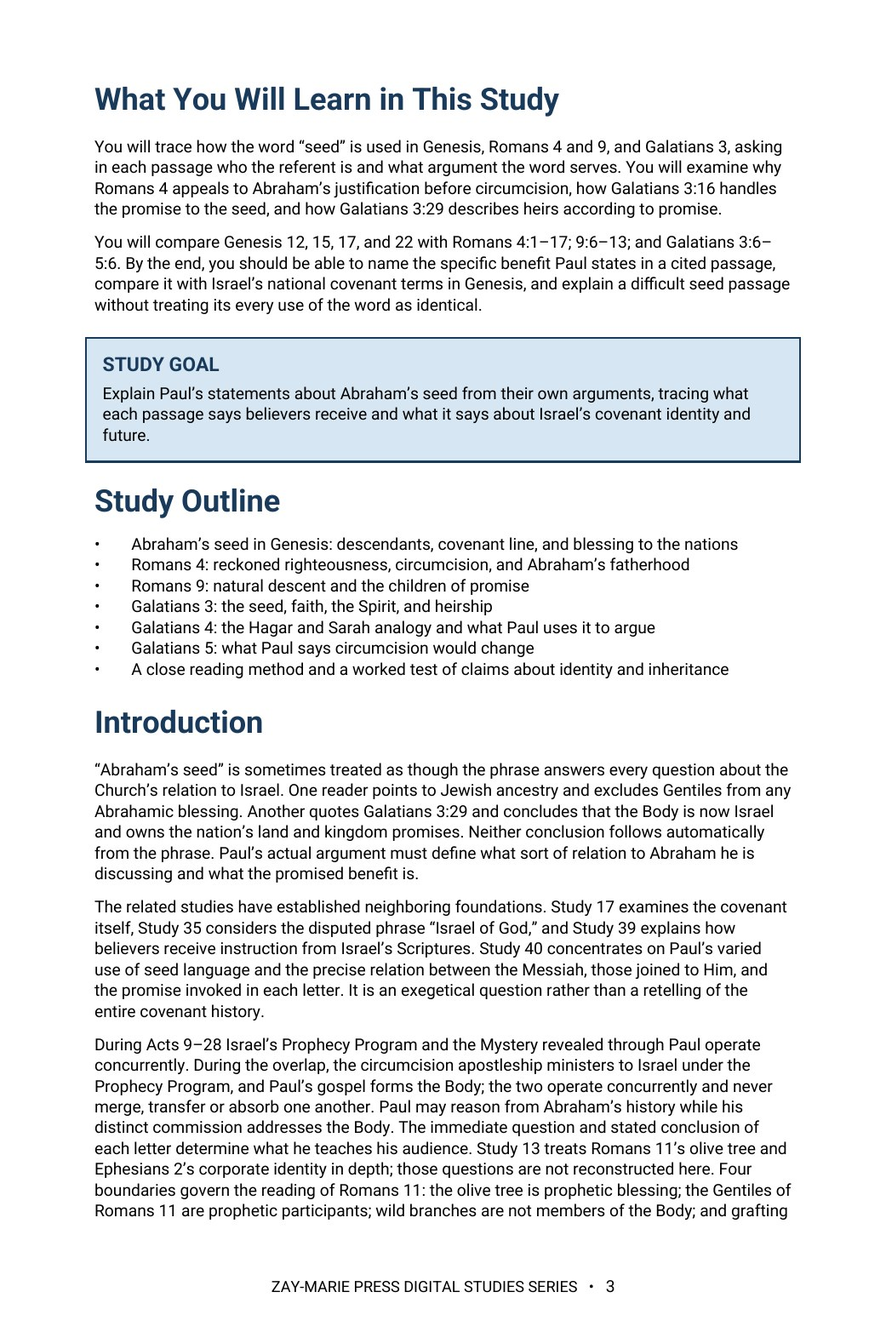
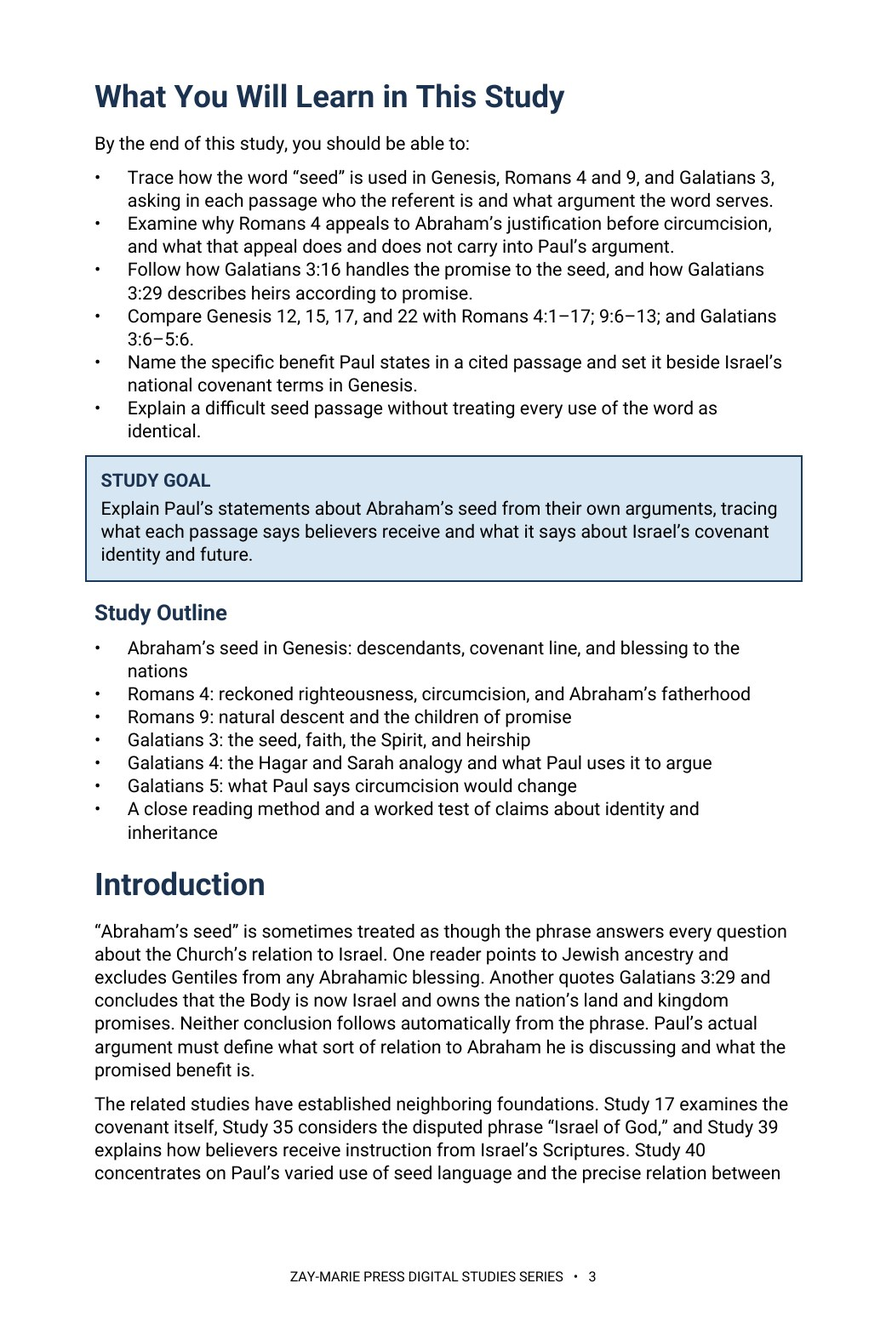
Study 40: rebuild to current page geometry, Roboto 10 pt, 23 pages; doctrinal retrofit; website counts and previews
Claude-Session: https://claude.ai/code/session_01HC7bs9KYP2scp4hCL6DkTp

diff --git a/study-40-who-is-abrahams-seed.html b/study-40-who-is-abrahams-seed.html
@@ -2,13 +2,13 @@
 <html lang="en"><head><meta charset="utf-8"><meta name="viewport" content="width=device-width,initial-scale=1"><title>Who Is Abraham’s Seed? | Zay-Marie Press</title><meta name="description" content="Trace how Paul uses Abraham’s seed in Romans and Galatians. Distinguish Christ, descendants, faith, blessing, and inheritance without transferring Israelite identity. Preview Study 40 from Zay-Marie Press."><link rel="stylesheet" href="styles.css?v=20260921-4"><link rel="icon" type="image/png" href="assets/zay-marie-press-favicon.png"><style>
 .study-detail-page{background:#fff;color:#252525}.detail-hero{background:linear-gradient(135deg,#f8f5ec,#e3ece2);padding:58px 0}.detail-hero-grid{display:grid;grid-template-columns:minmax(250px,.72fr) minmax(0,1.28fr);gap:58px;align-items:center}.detail-cover{max-width:390px;margin:auto}.detail-cover img{display:block;width:100%;height:auto;box-shadow:0 14px 36px rgba(8,45,69,.18)}.detail-hero h1{font-size:clamp(2.7rem,5vw,4.7rem);line-height:1.02;margin:8px 0 10px;color:#143823}.detail-subtitle{font-family:Georgia,serif;font-size:1.35rem;font-weight:700;color:#082d45;margin:0 0 7px}.detail-kicker{font-family:Georgia,serif;font-style:italic;font-size:1.05rem;color:#4a4a44;margin:0 0 22px}.detail-copy{font-size:1.08rem;line-height:1.65;max-width:760px}.detail-buyline{display:flex;align-items:center;gap:18px;flex-wrap:wrap;margin-top:25px}.detail-price{font-family:Georgia,serif;font-size:2rem;font-weight:700;color:#143823}.detail-format,.preview-card .page-no{font-family:Arial,sans-serif;font-size:.76rem;font-weight:700;letter-spacing:.1em;text-transform:uppercase;color:#176b3a}.detail-button{display:inline-block;background:#176b3a;color:#fff;padding:13px 22px;font-family:Arial,sans-serif;font-size:.8rem;font-weight:700;letter-spacing:.07em;text-transform:uppercase}.detail-button.pending{opacity:.72;cursor:default}.detail-section{padding:66px 0}.detail-section.soft{background:#f6f7f2}.detail-section.cream{background:#faf8f2}.detail-section h2{color:#143823;margin:6px 0 18px;font-size:clamp(2rem,3.4vw,3rem)}.detail-section .lead{max-width:920px;font-size:1.1rem;line-height:1.62}.study-distinction{max-width:920px;margin-top:28px;margin-bottom:28px;padding:26px 28px;background:#fff;border:1px solid #d8d1bf;border-left:4px solid #b8871c}.study-distinction h3{margin:0 0 10px;color:#143823}.study-distinction p{margin:0 0 14px;line-height:1.62}.study-distinction a{font-family:Arial,sans-serif;font-weight:700;color:#176b3a;text-decoration:none}.study-points{display:grid;grid-template-columns:repeat(3,1fr);gap:18px;margin-top:28px;margin-bottom:28px}.study-point,.scripture-card,.preview-card,.include-item{background:#fff;border:1px solid var(--line);text-align:left}.study-point{border-top:3px solid #176b3a;padding:22px}.study-point h3{color:#143823;margin:0 0 8px;font-size:1.2rem}.study-point p,.scripture-card p,.preview-card p,.include-item p{margin:0;line-height:1.55}.scripture-grid{display:grid;grid-template-columns:repeat(4,1fr);gap:14px;margin-top:24px;margin-bottom:24px}.scripture-card{padding:22px 20px;color:#143823}.scripture-card h3{margin:0 0 9px;font-family:Georgia,serif;font-size:1rem;line-height:1.35}.scripture-card p{font-size:.94rem;color:#45453f}.excerpt{max-width:900px;margin:28px auto;border-left:4px solid #b8871c;padding:10px 0 10px 28px}.excerpt blockquote{font-family:Georgia,serif;font-size:clamp(1.45rem,2.5vw,2rem);line-height:1.45;color:#143823;margin:0 0 16px}.excerpt p{line-height:1.6;margin:0}.preview-grid{display:grid;grid-template-columns:repeat(2,1fr);gap:20px;margin-top:28px;margin-bottom:28px}.preview-card{padding:18px;min-height:210px;box-shadow:0 7px 20px rgba(20,40,25,.05)}.preview-image-link{display:block;margin:0 0 18px}.preview-image-link img{display:block;width:100%;height:auto;border:1px solid #d8d1bf;box-shadow:0 8px 22px rgba(20,40,25,.1);transition:transform .18s ease,box-shadow .18s ease}.preview-image-link:hover img{transform:translateY(-2px);box-shadow:0 11px 28px rgba(20,40,25,.16)}.preview-card h3{color:#143823;margin:8px 0 10px}.preview-instruction{margin:10px 0 0;font-family:Arial,sans-serif;font-size:.78rem;letter-spacing:.04em;color:#5b5b55}.includes-grid{display:grid;grid-template-columns:repeat(4,1fr);gap:14px;margin-top:26px}.include-item{padding:22px 20px;color:#143823}.include-item h3{margin:0 0 9px;font-family:Arial,sans-serif;font-size:.86rem;line-height:1.35;letter-spacing:.02em}.include-item p{font-size:.94rem;color:#45453f}.final-buy{background:#082d45;color:#fff;border-top:4px solid #b8871c;padding:42px 48px;display:grid;grid-template-columns:1fr auto;gap:36px;align-items:center}.final-buy .eyebrow,.final-buy h2,.final-buy .detail-price{color:#fff}.final-buy h2{margin:7px 0 6px}.final-buy p{margin:0}.final-offer{text-align:center}.back-link{display:inline-block;margin-top:18px;color:#143823;font-family:Arial,sans-serif;font-weight:700;text-decoration:none}.preview-lightbox{position:fixed;inset:0;z-index:10000;display:none;align-items:flex-start;justify-content:center;background:rgba(8,22,16,.88);padding:24px;overflow:auto}.preview-lightbox.open{display:flex}.preview-lightbox img{display:block;width:auto;height:auto;max-width:none;box-shadow:0 18px 55px rgba(0,0,0,.4);background:#fff}.preview-lightbox-close{position:fixed;top:18px;right:24px;z-index:10001;width:46px;height:46px;border:1px solid rgba(255,255,255,.65);border-radius:50%;background:rgba(0,0,0,.55);color:#fff;font:32px/1 Arial,sans-serif;cursor:pointer}@media(max-width:900px){.detail-hero-grid{grid-template-columns:1fr;gap:34px}.detail-cover{max-width:330px}.study-points{grid-template-columns:repeat(2,1fr)}.scripture-grid,.includes-grid{grid-template-columns:repeat(2,1fr)}.preview-grid,.final-buy{grid-template-columns:1fr}.final-offer{text-align:left}}@media(max-width:560px){.detail-hero{padding:42px 0}.detail-section{padding:50px 0}.study-points,.scripture-grid,.includes-grid{grid-template-columns:1fr}.final-buy{padding:32px 24px}.detail-buyline{align-items:flex-start;flex-direction:column;gap:8px}.preview-lightbox{padding:58px 10px 24px}.preview-lightbox img{width:100%;max-width:100%;height:auto}} .detail-hero h1{font-size:clamp(2.1rem,4.2vw,3.7rem);line-height:1.08}</style></head><body class="study-detail-page">
 <header class="site-header"><div class="wrap nav"><a class="logo" href="index.html" aria-label="Zay-Marie Press home"><img src="assets/zay-marie-press-logo-hq.png" alt="Zay-Marie Press" width="420" height="238"></a><button class="menu-toggle" type="button" aria-expanded="false" aria-controls="primary-nav">MENU</button><nav aria-label="Primary navigation" class="primary-nav" id="primary-nav"><a href="index.html">HOME</a><a href="books.html">BOOKS</a><a href="series.html">SERIES</a><a class="active" aria-current="page" href="digital-studies.html">DIGITAL STUDIES</a><a href="biblical-hermeneutics-course.html">COURSE</a><a href="about.html">ABOUT</a><a href="resources.html">RESOURCES</a><a href="contact.html">CONTACT</a></nav></div></header><main>
-<section class="detail-hero"><div class="wrap detail-hero-grid"><div class="detail-cover"><picture><source srcset="assets/study-40-cover.webp" type="image/webp"><img src="assets/study-40-cover.jpg" alt="Who Is Abraham’s Seed? cover"></picture></div><div><div class="eyebrow">STUDY 40 · DIGITAL STUDY</div><h1>Who Is<br>Abraham’s Seed?</h1><p class="detail-subtitle">Faith, Promise, Inheritance, and the Difference Between Blessing and Israelite Identity</p><p class="detail-kicker">Paul’s distinct uses of one phrase in Romans and Galatians</p><p class="detail-copy">Paul identifies Christ as the promised seed, calls believers who belong to Him Abraham’s seed, and describes Abraham as the father of those who believe. The passages address different questions, and each conclusion must be drawn from its own argument.</p><p class="detail-copy">Read Genesis alongside Romans 4 and 9 and Galatians 3–5 to see what faith, blessing, and heirship grant believers in Christ—and why those gifts do not make Gentile believers national Israel.</p><div class="detail-buyline"><span class="detail-price">$5.99</span><span class="detail-format">Digital PDF · 16 Pages</span><span class="detail-button pending" aria-disabled="true">Checkout Coming Soon</span></div></div></div></section>
+<section class="detail-hero"><div class="wrap detail-hero-grid"><div class="detail-cover"><picture><source srcset="assets/study-40-cover.webp" type="image/webp"><img src="assets/study-40-cover.jpg" alt="Who Is Abraham’s Seed? cover"></picture></div><div><div class="eyebrow">STUDY 40 · DIGITAL STUDY</div><h1>Who Is<br>Abraham’s Seed?</h1><p class="detail-subtitle">Faith, Promise, Inheritance, and the Difference Between Blessing and Israelite Identity</p><p class="detail-kicker">Paul’s distinct uses of one phrase in Romans and Galatians</p><p class="detail-copy">Paul identifies Christ as the promised seed, calls believers who belong to Him Abraham’s seed, and describes Abraham as the father of those who believe. The passages address different questions, and each conclusion must be drawn from its own argument.</p><p class="detail-copy">Read Genesis alongside Romans 4 and 9 and Galatians 3–5 to see what faith, blessing, and heirship grant believers in Christ—and why those gifts do not make Gentile believers national Israel.</p><div class="detail-buyline"><span class="detail-price">$5.99</span><span class="detail-format">Digital PDF · 23 Pages</span><span class="detail-button pending" aria-disabled="true">Checkout Coming Soon</span></div></div></div></section>
 <section class="detail-section"><div class="wrap"><div class="eyebrow">ABOUT THIS STUDY</div><h2>One Phrase, Several Referents</h2><p class="lead">Abraham’s seed can describe natural descendants, the selected covenant line, Christ, or people who belong to Christ. Treating every occurrence as though it names the same group turns Paul’s precise claims into a sweeping identity claim he does not make.</p><p class="lead">Study 40 follows the order of Paul’s arguments: righteousness before circumcision in Romans 4; the line of promise in Romans 9; the blessing, Spirit, singular seed, and heirship in Galatians 3; and the question of circumcision in Galatians 5.</p><p class="lead">This is not a study of the Abrahamic covenant’s own original terms, which Study 17 establishes in Genesis, nor of Romans 11’s olive-tree image built on that covenant, which Study 13 reads in its own setting, nor of the general method for learning from Israel’s Scriptures, which Study 39 supplies. Its task is narrower: to follow Paul’s own uses of Abraham’s seed passage by passage, and to show that the phrase names different groups in different arguments rather than one sweeping identity.</p><div class="study-distinction"><h3>How These Studies Relate</h3><p>Study 40 tests what Paul means by Abraham’s seed, faith, blessing, and heirship in Romans and Galatians.</p><p><a href="study-17-the-abrahamic-covenant.html">Study 17 — The Abrahamic Covenant</a> Begin with the covenant’s original terms in Genesis; its selected line, land, nation, and blessing set the baseline for evaluating Paul’s later claims.</p><p><a href="study-13-the-olive-tree-and-the-body-of-christ.html">Study 13 — The Olive Tree and the Body of Christ</a> Compare Romans 11’s olive-tree image with Paul’s seed language; the comparison clarifies why sharing patriarchal blessing need not assign Israelite identity.</p><p><a href="study-39-the-churchs-relationship-to-israels-scriptures.html">Study 39 — The Church’s Relationship to Israel’s Scriptures</a> Use the broader reading method for Israel’s Scriptures to see why Paul’s application of Abraham’s history must be established passage by passage.</p><p class="connection-guide-link"><a href="study-connections.html#study-40">Explore the full connection guide for Study 40 →</a></p></div></div></section>
 <section class="detail-section soft"><div class="wrap"><div class="eyebrow">WHAT YOU’LL STUDY</div><h2>Follow Paul’s Argument From Promise to Heirship</h2><div class="study-points"><div class="study-point"><h3>Genesis and the Selected Line</h3><p>Distinguish Abraham’s descendants, Isaac’s line, national promises, and blessing to the nations before tracing Paul’s citations.</p></div><div class="study-point"><h3>Romans 4 and Faith</h3><p>See why righteousness reckoned before circumcision matters for Abraham’s fatherhood and Gentile inclusion.</p></div><div class="study-point"><h3>Romans 9 and Promise</h3><p>Examine Isaac and Jacob within Paul’s account of Israel and God’s faithfulness to His word.</p></div><div class="study-point"><h3>The Seed in Galatians 3:16</h3><p>Read Galatians 3:16 in its own argument, noting how Paul handles “seed” alongside its other uses in Genesis.</p></div><div class="study-point"><h3>Heirs and Inheritance</h3><p>Trace faith, the Spirit, adoption, and inheritance in Galatians 3–4 through belonging to Christ.</p></div><div class="study-point"><h3>The Circumcision Test</h3><p>Compare its historical place in Romans 4 with Paul’s refusal to make it a condition of Gentile standing in Galatians 5.</p></div></div></div></section>
 <section class="detail-section cream"><div class="wrap"><div class="eyebrow">KEY SCRIPTURES</div><h2>Read the Texts Together Without Collapsing Their Claims</h2><div class="scripture-grid"><div class="scripture-card"><h3>Genesis 12:1–3; 15:1–6</h3><p>Distinguish the promises to Abraham and the nations and the reckoning of righteousness by faith.</p></div><div class="scripture-card"><h3>Genesis 17:9–14; 21:8–13</h3><p>Observe circumcision’s timing and the selected covenant line through Isaac.</p></div><div class="scripture-card"><h3>Romans 4:1–17</h3><p>Follow Paul’s reasoning from faith before circumcision to Abraham’s fatherhood and promised inheritance.</p></div><div class="scripture-card"><h3>Romans 9:1–13</h3><p>Read the children of promise in Paul’s account of Israel and God’s word.</p></div><div class="scripture-card"><h3>Galatians 3:6–14</h3><p>Identify the blessing of the nations, justification, Christ’s work, and the promised Spirit.</p></div><div class="scripture-card"><h3>Galatians 3:15–29</h3><p>Compare Christ as the one seed with believers called seed because they belong to Him.</p></div><div class="scripture-card"><h3>Galatians 4:1–7; 4:21–31</h3><p>Distinguish sonship and heirship from the analogy of the two mothers.</p></div><div class="scripture-card"><h3>Galatians 5:1–6</h3><p>Test whether circumcision can be required for the Galatians’ standing in Christ.</p></div></div></div></section>
 <section class="detail-section"><div class="wrap"><div class="eyebrow">FROM THE STUDY</div><h2>What the Passage Actually Grants</h2><div class="excerpt"><blockquote>“A reference to Abraham does not function as a reference to every clause of every Abrahamic promise.”</blockquote><p>Study 40 identifies each benefit Paul names before considering claims about national identity, land, or the scope of inheritance.</p></div></div></section>
 <section class="detail-section soft"><div class="wrap"><div class="eyebrow">A LOOK INSIDE</div><h2>Preview the Study Before You Purchase</h2><p class="preview-instruction">Click any page to enlarge it for reading.</p><div class="preview-grid"><div class="preview-card"><a class="preview-image-link" data-preview-lightbox href="assets/study-40-page-2.jpg"><img src="assets/study-40-page-2.jpg" alt="Study 40 interior preview — page 2, table of contents"></a><div class="page-no">Page 2</div><h3>Table of Contents</h3><p>See the full structure of the study, from the introduction through the final synthesis.</p></div><div class="preview-card"><a class="preview-image-link" data-preview-lightbox href="assets/study-40-page-3.jpg"><img src="assets/study-40-page-3.jpg" alt="Study 40 interior preview — page 3, what you will learn"></a><div class="page-no">Page 3</div><h3>What You Will Learn</h3><p>See the reader outcomes, central aim, and the passages that guide the study.</p></div><div class="preview-card"><a class="preview-image-link" data-preview-lightbox href="assets/study-40-page-4.jpg"><img src="assets/study-40-page-4.jpg" alt="Study 40 interior preview — page 4, the Genesis promises and Romans 4"></a><div class="page-no">Page 4</div><h3>The Genesis Promises Paul Selects</h3><p>See which Genesis clauses Paul cites and the question each citation answers.</p></div></div></div></section>
 <section class="detail-section"><div class="wrap"><div class="eyebrow">WHAT’S INCLUDED</div><h2>A Focused Study of Abraham’s Seed in Paul</h2><div class="includes-grid"><div class="include-item"><h3>Focused Biblical Study</h3><p>A sustained examination of how Paul uses the Abrahamic promises across Romans and Galatians.</p></div><div class="include-item"><h3>Four Seed Referents</h3><p>Distinguish natural descent, selected line, Christ, and those who belong to Him.</p></div><div class="include-item"><h3>Passage Comparisons</h3><p>Compare Genesis with Romans 4 and 9 and Galatians 3–5 in their own arguments.</p></div><div class="include-item"><h3>Worked Identity Test</h3><p>Evaluate claims about belonging to Christ, Israelite identity, and promised land.</p></div><div class="include-item"><h3>Key Distinctions</h3><p>Keep blessing, national identity, inheritance, circumcision, and law in view without conflating them.</p></div><div class="include-item"><h3>Scripture-Tracing Exercise</h3><p>Record Paul’s stated benefits and the additional claims that require separate textual warrant.</p></div><div class="include-item"><h3>Guided Further Study</h3><p>Work through assigned readings and concrete questions for further comparison.</p></div><div class="include-item"><h3>Digital PDF</h3><p>A formatted resource for personal study and teaching preparation.</p></div></div></div></section>
-<section class="detail-section cream"><div class="wrap"><div class="final-buy"><div><div class="eyebrow">STUDY 40 · DIGITAL STUDY</div><h2>Who Is Abraham’s Seed?</h2><p>Digital PDF · 16 Pages · For personal use</p></div><div class="final-offer"><div class="detail-price">$5.99</div><span class="detail-button pending" aria-disabled="true">Checkout Coming Soon</span></div></div><a class="back-link" href="digital-studies.html">← Back to All Digital Studies</a></div></section><section class="study-method-course-bridge"><div class="wrap"><div class="study-method-course-panel"><div><div class="eyebrow">BUILD THE INTERPRETIVE METHOD</div><h2>Want More Than a Focused Study?</h2><p>Digital Studies examine particular biblical subjects and difficult passages. The 40-lesson Biblical Hermeneutics course teaches a complete, repeatable method for establishing meaning in context, determining proper assignment, and making responsible application.</p></div><a class="btn btn-primary" href="biblical-hermeneutics-course.html">BIBLICAL HERMENEUTICS COURSE</a></div></div></section>
+<section class="detail-section cream"><div class="wrap"><div class="final-buy"><div><div class="eyebrow">STUDY 40 · DIGITAL STUDY</div><h2>Who Is Abraham’s Seed?</h2><p>Digital PDF · 23 Pages · For personal use</p></div><div class="final-offer"><div class="detail-price">$5.99</div><span class="detail-button pending" aria-disabled="true">Checkout Coming Soon</span></div></div><a class="back-link" href="digital-studies.html">← Back to All Digital Studies</a></div></section><section class="study-method-course-bridge"><div class="wrap"><div class="study-method-course-panel"><div><div class="eyebrow">BUILD THE INTERPRETIVE METHOD</div><h2>Want More Than a Focused Study?</h2><p>Digital Studies examine particular biblical subjects and difficult passages. The 40-lesson Biblical Hermeneutics course teaches a complete, repeatable method for establishing meaning in context, determining proper assignment, and making responsible application.</p></div><a class="btn btn-primary" href="biblical-hermeneutics-course.html">BIBLICAL HERMENEUTICS COURSE</a></div></div></section>
 </main>
 <div class="preview-lightbox" id="preview-lightbox" role="dialog" aria-modal="true" aria-label="Expanded study preview"><button class="preview-lightbox-close" type="button" aria-label="Close preview">×</button><img id="preview-lightbox-image" alt=""></div><footer class="site-footer"><div class="wrap footer-grid"><div class="footer-about"><h3>Zay-Marie Press</h3><p class="footer-tagline"><em>Where the Bible Means What It Says.</em></p><p>Zay-Marie Press is a Christian theological publisher dedicated to producing doctrinally precise, carefully structured biblical resources that equip pastors, teachers, and serious students with clarity, depth, and Scripture-anchored truth.</p><p><a href="https://zaymariepress.com">zaymariepress.com</a><br><a href="mailto:info@zaymariepress.com">info@zaymariepress.com</a></p></div><div class="footer-column"><h3>Explore</h3><div class="footer-links-stacked"><a href="books.html">Books</a><br><a href="series.html">Series</a><br><a href="biblical-hermeneutics-course.html">Course</a><br><a href="digital-studies.html">Digital Studies</a><br><a href="resources.html">Resources</a><br><a href="bible-book-summaries.html">Bible Book Summaries</a><br><a href="doctrinal-packets.html">Doctrinal Packets</a><br><a href="historical-drift.html">Historical Drift</a><br><a href="about.html">About</a><br><a href="contact.html">Contact</a></div></div><div class="footer-column"><h3>Reader Support</h3><div class="footer-links-stacked"><a href="reader-support.html#faq">FAQ</a><br><a href="reader-support.html#shipping-returns">Shipping &amp; Returns</a><br><a href="reader-support.html#digital-downloads">Digital Downloads</a><br><a href="reader-support.html#contact-support">Contact Support</a></div></div><div class="footer-column"><h3>Acts Overlap</h3><p><strong>Acts Overlap Theology Series</strong></p><p><em>Two Distinct Streams. One Overlap.</em></p><p><a href="series.html">Series Overview</a></p></div></div><div class="wrap footer-bottom">© 2026 Zay-Marie Press. All rights reserved.</div></footer><script src="site.js"></script><script>const lightbox=document.getElementById('preview-lightbox'),lightboxImage=document.getElementById('preview-lightbox-image'),closeLightbox=()=>{lightbox.classList.remove('open');lightboxImage.src='';};document.querySelectorAll('[data-preview-lightbox]').forEach(link=>link.addEventListener('click',event=>{event.preventDefault();lightboxImage.src=link.href;lightboxImage.alt=link.querySelector('img').alt;lightbox.classList.add('open');}));document.querySelector('.preview-lightbox-close').addEventListener('click',closeLightbox);lightbox.addEventListener('click',event=>{if(event.target===lightbox)closeLightbox();});document.addEventListener('keydown',event=>{if(event.key==='Escape')closeLightbox();});</script></body></html>

diff --git a/site.js b/site.js
@@ -62,7 +62,7 @@ const resourceModal=document.querySelector('#resource-modal'), resourceModalTitl
 if(resourceModal&&resourceModalTriggers.length){const closeResourceModal=()=>{resourceModal.hidden=true;document.body.classList.remove('resource-modal-open');lastResourceTrigger?.focus();};resourceModalTriggers.forEach(trigger=>trigger.addEventListener('click',()=>{lastResourceTrigger=trigger;if(resourceModalTitle)resourceModalTitle.textContent=trigger.dataset.title||'Resource';if(resourceModalDescription)resourceModalDescription.textContent=trigger.dataset.description||'';if(resourceModalLink){resourceModalLink.href=trigger.dataset.href||'#';resourceModalLink.textContent=trigger.dataset.linkText||'OPEN RESOURCE';}resourceModal.hidden=false;document.body.classList.add('resource-modal-open');resourceModalClose?.focus();}));resourceModalClose?.addEventListener('click',closeResourceModal);resourceModal.addEventListener('click',e=>{if(e.target===resourceModal)closeResourceModal();});document.addEventListener('keydown',e=>{if(e.key==='Escape'&&!resourceModal.hidden)closeResourceModal();});}
 
 /* Display the verified final-PDF page count at the primary purchase decision point. */
-const digitalStudyPageCounts={1:17,2:19,3:16,4:17,5:15,6:15,7:14,8:13,9:15,10:20,11:15,12:15,13:18,14:15,15:15,16:16,17:17,18:18,19:16,20:15,21:16,22:15,23:14,24:16,25:17,26:16,27:16,28:17,29:19,30:18,31:18,32:19,33:18,34:20,35:22,36:20,37:21,38:22,39:22,40:16,41:16,42:17,43:17,44:19,45:19,46:20,47:19,48:18,49:20,50:19,51:20,52:19,53:19,54:17,55:20,56:20,57:20,58:19,59:20,60:15,61:16,62:18,63:17,64:17,65:16,66:16,67:17,68:16,69:17,70:17,71:16};
+const digitalStudyPageCounts={1:17,2:19,3:16,4:17,5:15,6:15,7:14,8:13,9:15,10:20,11:15,12:15,13:18,14:15,15:15,16:16,17:17,18:18,19:16,20:15,21:16,22:15,23:14,24:16,25:17,26:16,27:16,28:17,29:19,30:18,31:18,32:19,33:18,34:20,35:22,36:20,37:21,38:22,39:22,40:23,41:16,42:17,43:17,44:19,45:19,46:20,47:19,48:18,49:20,50:19,51:20,52:19,53:19,54:17,55:20,56:20,57:20,58:19,59:20,60:15,61:16,62:18,63:17,64:17,65:16,66:16,67:17,68:16,69:17,70:17,71:16};
 const digitalStudyMatch=window.location.pathname.match(/\/study-(\d+)-/i);
 const digitalStudyFormat=document.querySelector('.detail-hero .detail-format');
 if(digitalStudyMatch&&digitalStudyFormat){const studyNumber=Number(digitalStudyMatch[1]),pageCount=digitalStudyPageCounts[studyNumber];if(pageCount)digitalStudyFormat.textContent=`Digital PDF · ${pageCount} Pages`;}

diff --git a/CLAUDE.md b/CLAUDE.md
@@ -23,7 +23,7 @@ These are kept in the repo at `controlling-documents/` and are the current versi
 - As of v1.50 (publisher directive, 2026-10-03), the **What You Will Learn in This Study** section is always bulleted, never set as running paragraphs, written into this file in the same pass (Master Standard Section 3 item 4, Section 6 structure line, Section 22): a list of bullet points, each describing one process, textual marker or interpretive discipline the reader will practice (Section 17 still governs what they may say); at most one short lead-in line may stand above the bullets (for example, “By the end of this study, you should be able to:”); the Study Goal callout and the Study Outline keep their own forms. It governs every new study and every study rebuilt or retrofitted from now on; earlier studies take it when reopened or when the publisher directs. In every study check (Step 1), report whether the section is bulleted. First applied to Study 43.
 **`controlling-documents/Digital_Studies_Relationship_Map_v1.39.md`** — records each study's distinct subject, its related studies, the eight priced six-study collections, the Paul's Missionary Journeys cross-reference map, and the five primary catalog categories (currently version 1.39, covers Studies 1–71; update it as new studies publish, bump the version number, rename the file to match, and log the change in its own version-history table — mirroring the Master Standard's `_vX.Y` filename convention). Check a proposed topic against it before recommending or writing a new study. (2026-09-28: the file was missing from this repo despite this note referencing it; replaced from the publisher's copy and bumped v1.15→v1.25 in the same pass. If this note ever again points to a version not present under `controlling-documents/`, ask the publisher for a copy rather than proceeding without the check.)
 - **`controlling-documents/Digital_Studies_Category_Standard_v1.1.md`** — FINAL and binding (publisher, 2026-10-01): the rules for the five primary catalog categories (Foundations, Israel & Prophecy, Body of Christ, Passages, Doctrinal Themes), the ordered decision procedure for new studies, the precedents, all 71 fixed assignments, and the cover-label form for each category. Read it before placing any card or cover label. Do not ask the publisher where a study belongs; apply the procedure and state the result. Only the publisher changes a ruling; then bump this Standard's version and filename, re-letter the cover, and update the Relationship Map.
-- **`controlling-documents/Doctrinal_Upgrade_Retrofit_Plan_v1.118.md`** — working tracker for retrofitting Studies 1–59 to the 2026-10-02 doctrinal upgrade (Framework/PAM v1.1, Master Standard v1.40, Rules 7–17): withdrawn-wording search keys, impact tiers, waves and the per-study method. Read it before continuing the retrofit in any session; update status, bump the version and rename the file as work proceeds.
+- **`controlling-documents/Doctrinal_Upgrade_Retrofit_Plan_v1.119.md`** — working tracker for retrofitting Studies 1–59 to the 2026-10-02 doctrinal upgrade (Framework/PAM v1.1, Master Standard v1.40, Rules 7–17): withdrawn-wording search keys, impact tiers, waves and the per-study method. Read it before continuing the retrofit in any session; update status, bump the version and rename the file as work proceeds.
 - **`controlling-documents/Doctrinal_Packet_Standard_v0.3.md`** — Doctrinal Packet Standard (DRAFT; §7 approved). Governs the separate Doctrinal Packets product strand (5-page interpretive PDFs per Bible book — a print-friendly cover as page 1 plus 4 content pages, $2.99, KJV, pilot: Genesis, live at `packet-genesis.html`, hub `doctrinal-packets.html`; site pages say "5 Pages", cover styles live in `packets.css`, Old Testament blue and New Testament soft pale green, hub listed in Bible order). **Preview rule (publisher directive, 2026-09-29, packets only):** previews show about one page's worth in two cropped views (top of page 1 through the anchor texts; the chart section) — never the exegesis, architecture, Mystery contrast, logic chain, outline, or closing. Master Standard §16/§17 still govern Digital Studies. Bump the version and rename the file as the Standard is finalized.
 - **`controlling-documents/Preview_Page_Spoiler_Retrofit_Audit_v1.4.md`** — working tracker for the Studies 1–60 preview-page conclusion-spoiler retrofit (see the section below). Read it before continuing that audit in any session; update its status fields and changelog, bump the version, and rename the file to match as the audit proceeds — same `_vX.Y` convention as the other controlling documents. As of v1.1, the website-side half was DONE: all 60 studies' "What You'll Study" text was judged against the rule (methodology documented in the file) and 22 points across 11 studies were rewritten and pushed; an unrelated Study 22 content bug (Study 21's content had leaked into it) was also found and fixed. As of v1.2, the publisher supplied Studies 1–60's interior production PDFs and the interior-PDF half was also surveyed (read-only): 10 studies (37, 41, 45, 47, 48, 49, 51, 52, 53, 54) were found to have at least one interior "What You Will Learn" violation, 50 studies were confirmed compliant, and the orphaned `assets/study-45-sanctification-under-grace.docx` (removed from the repo per the publisher in v1.0) was confirmed word-for-word identical to Study 45's actual production interior PDF content. As of v1.3, the publisher supplied editable DOCX sources for all 10 violating studies; all 15 violating points were rewritten and approved, delivered as corrected final PDFs, and — along the way — a second defect was found and fixed (Studies 47 and 48's source DOCX still had an unintegrated cover placeholder despite both being long-published live with real covers; fixed by inserting the existing approved cover art). The website's "What You Will Learn" preview image (`study-NN-page-3.jpg`) was regenerated from the corrected content for all 10 studies and pushed to `main` (commit `cea1859`), verified against a fresh clone. **The website side of this audit is now fully compliant for all 60 studies.** Outstanding: the publisher's purchasable interior PDF files themselves have corrected versions delivered, but distribution to existing purchasers was decided by the publisher on 2026-09-29: silent swap of the files behind the existing downloads, no reissue notice (recorded in the v1.4 changelog entry; the product files are not in this repo).
 

diff --git a/controlling-documents/Doctrinal_Upgrade_Retrofit_Plan_v1.119.md b/controlling-documents/Doctrinal_Upgrade_Retrofit_Plan_v1.119.md
@@ -211,3 +211,4 @@ Working tracker for correcting published studies to the Framework/PAM v1.1, Mast
 - v1.116 (2026-10-04): Study 37 rebuilt in Roboto at 10 pt on the current page, 21 pages (was 16 on the old 432×648 page at 8 pt). Withdrawn wording removed: Gal 6:16 'believing Jews within the Body—Israelites by identity' now 'believing Jews within Israel’s prophetic identity—not members of the Body'; the 'believing Jews are gathered into the Body … identity, not program membership' clarifiers (remnant paragraph and overlap paragraph) replaced by the standing Rule 17 and overlap sentences; Acts 28 'national judicial suspension point' conformed with the suspension-boundary sentence. Orphan imprint (page 21 alone) fixed with layout-only keep-with-next on Final Synthesis so it moves with the imprint; no text changed.
 - v1.117 (2026-10-04): Study 38 rebuilt in Roboto at 10 pt on the current page, 22 pages (was 16 on the old 432×648 page at 8 pt). WYWL running paragraphs replaced by the standard lead-in and six process bullets (publisher-approved, same words); 'read as the Framework assigns them' and two 'framework' phrases reworded; withdrawn 'believing Jews are gathered into the Body … identity, not program membership' replaced by the standing overlap sentence; Rule 17, Rule 18 short form, Rule 11 and Cornelius sentences added; Acts 28 wording conformed (body and Guided Further Study) with the suspension-boundary sentence; Teaching Outline numbered. Layout-only keep-with-next on Final Synthesis (imprint never alone). Preview 3 relabelled 'Audience and Program in Acts'.
 - v1.118 (2026-10-04): Study 39 rebuilt in Roboto at 10 pt on the current page, 22 pages (was 16 on the old 432×648 page at 8 pt; the Scripture-Tracing KJV table runs seven pages). WYWL running paragraphs replaced by the standard lead-in and six process bullets (publisher-approved, same words); two 'The Framework does not assign … as a book' sentences (2 Timothy, Philippians) converted to the reader-facing audience-markers sentence; withdrawn 'Gentiles participate spiritually in that blessing' replaced by the Galatians 3 standing sentence; withdrawn 'believing Jews are gathered into the Body … identity, not program membership' replaced by the standing overlap sentence plus Rule 17; Acts 28 'national judicial suspension' conformed with the suspension-boundary sentence; Teaching Outline numbered; layout-only keep-with-next on Final Synthesis.
+- v1.119 (2026-10-04): Study 40 rebuilt in Roboto at 10 pt on the current page, 23 pages (was 16 on the old 432×648 page). WYWL running paragraphs replaced by the standard lead-in and six process bullets (publisher-approved, same words); withdrawn 'believing Jews are gathered into the Body … identity, not program membership' replaced by the overlap sentence plus Rule 17; 'Gentiles participate spiritually' (Gal 3:29 paragraph, Section 10, Key Distinctions cell) replaced by the Galatians 3 standing sentence; publisher-approved rewording of 'participate in promise', 'complete their Abrahamic heirship' and 'a substantial Abrahamic connection' so they state what Paul says believers receive in Christ; Teaching Outline numbered; layout-only keep-with-next on Final Synthesis.

diff --git a/controlling-documents/Digital_Studies_PAM_Audit_v1.213.md b/controlling-documents/Digital_Studies_PAM_Audit_v1.213.md
@@ -442,3 +442,4 @@ Study 15 PDF not yet supplied. Typography: none of Studies 2, 3, 6, 8 is in EB G
 - v1.210 (2026-10-04): Study 37 rebuilt in Roboto at 10 pt on the current page, 21 pages; withdrawn Gal 6:16 and 'gathered into the Body' wording replaced with standing sentences; Acts 28 wording conformed (see Retrofit Plan v1.116).
 - v1.211 (2026-10-04): Study 38 rebuilt in Roboto at 10 pt on the current page, 22 pages; WYWL bulleted; Framework wording removed; withdrawn 'gathered into the Body' sentence replaced; Rule 17, 18, 11 and Cornelius sentences added; Acts 28 wording conformed (see Retrofit Plan v1.117).
 - v1.212 (2026-10-04): Study 39 rebuilt in Roboto at 10 pt on the current page, 22 pages; WYWL bulleted; Framework anchor wording converted; withdrawn Gal 3 'participate spiritually' and 'gathered into the Body' wording replaced; Acts 28 wording conformed (see Retrofit Plan v1.118).
+- v1.213 (2026-10-04): Study 40 rebuilt in Roboto at 10 pt on the current page, 23 pages; WYWL bulleted; withdrawn 'gathered into the Body' and 'Gentiles participate spiritually' wording replaced by standing sentences; Abrahamic 'participate/connection/heirship' summary lines reworded (see Retrofit Plan v1.119).
